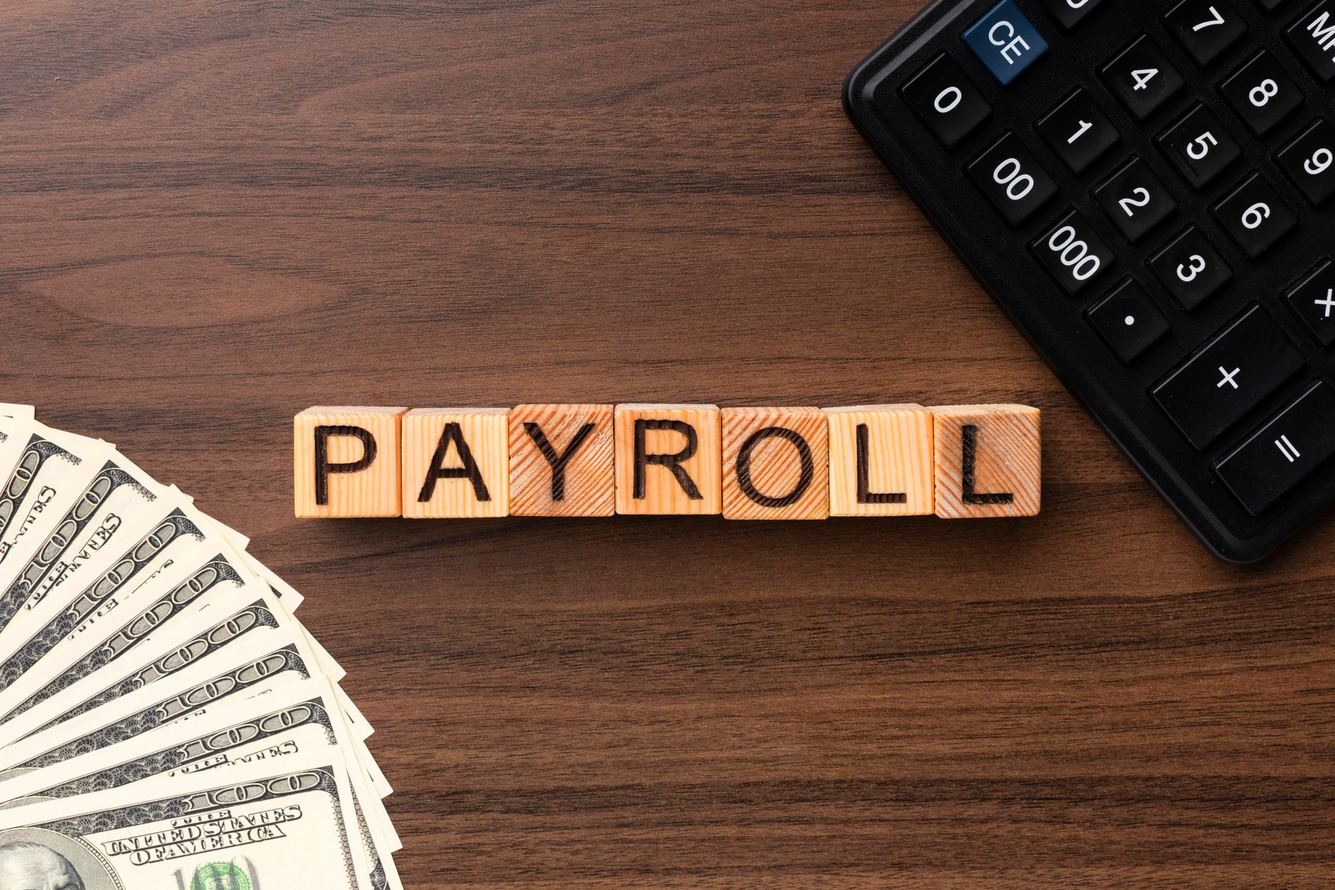
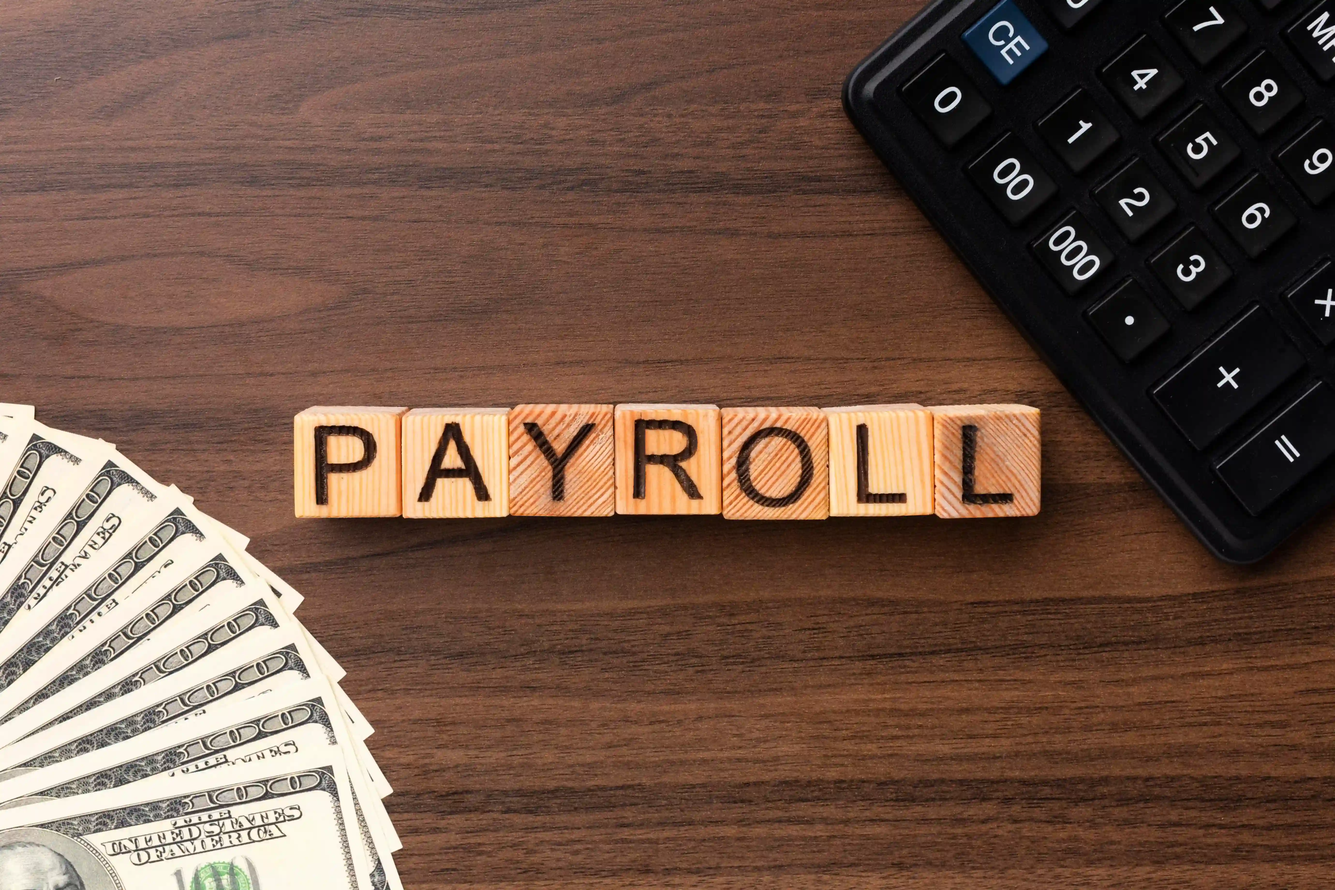
Optimize dashboard performance and reduce image size

Changed region(s): [[0.4362, 0.5, 0.4674, 0.5312]]

diff --git a/src/main/java/com/payroll/servlet/DashboardServlet.java b/src/main/java/com/payroll/servlet/DashboardServlet.java
@@ -8,6 +8,7 @@ import jakarta.servlet.ServletException;
 import jakarta.servlet.annotation.WebServlet;
 import jakarta.servlet.http.*;
 import java.io.IOException;
+import java.util.List;
 import java.util.stream.Collectors;
 
 @WebServlet("/dashboard")
@@ -21,14 +22,16 @@ public class DashboardServlet extends HttpServlet {
     protected void doGet(HttpServletRequest req, HttpServletResponse resp) throws ServletException, IOException {
         SessionUtil.requireAdmin(req, resp);
 
+        List<com.payroll.model.Payroll> allPayrolls = payrollDAO.getAllPayroll();
+        
         req.setAttribute("totalEmployees", employeeDAO.getAllEmployees().size());
-        req.setAttribute("totalPayrolls",  payrollDAO.getAllPayroll().size());
+        req.setAttribute("totalPayrolls",  allPayrolls.size());
         req.setAttribute("totalDepts",     departmentDAO.getAllDepartments().size());
-        req.setAttribute("recentPayrolls", payrollDAO.getAllPayroll().stream().limit(5).collect(Collectors.toList()));
+        req.setAttribute("recentPayrolls", allPayrolls.stream().limit(5).collect(Collectors.toList()));
         req.setAttribute("activePage", "dashboard");
 
         // Monthly payroll spend: sum of net salaries from all payroll records
-        double monthlySpend = payrollDAO.getAllPayroll().stream()
+        double monthlySpend = allPayrolls.stream()
                 .mapToDouble(p -> p.getNetSalary())
                 .sum();
         req.setAttribute("monthlySpend", monthlySpend);
